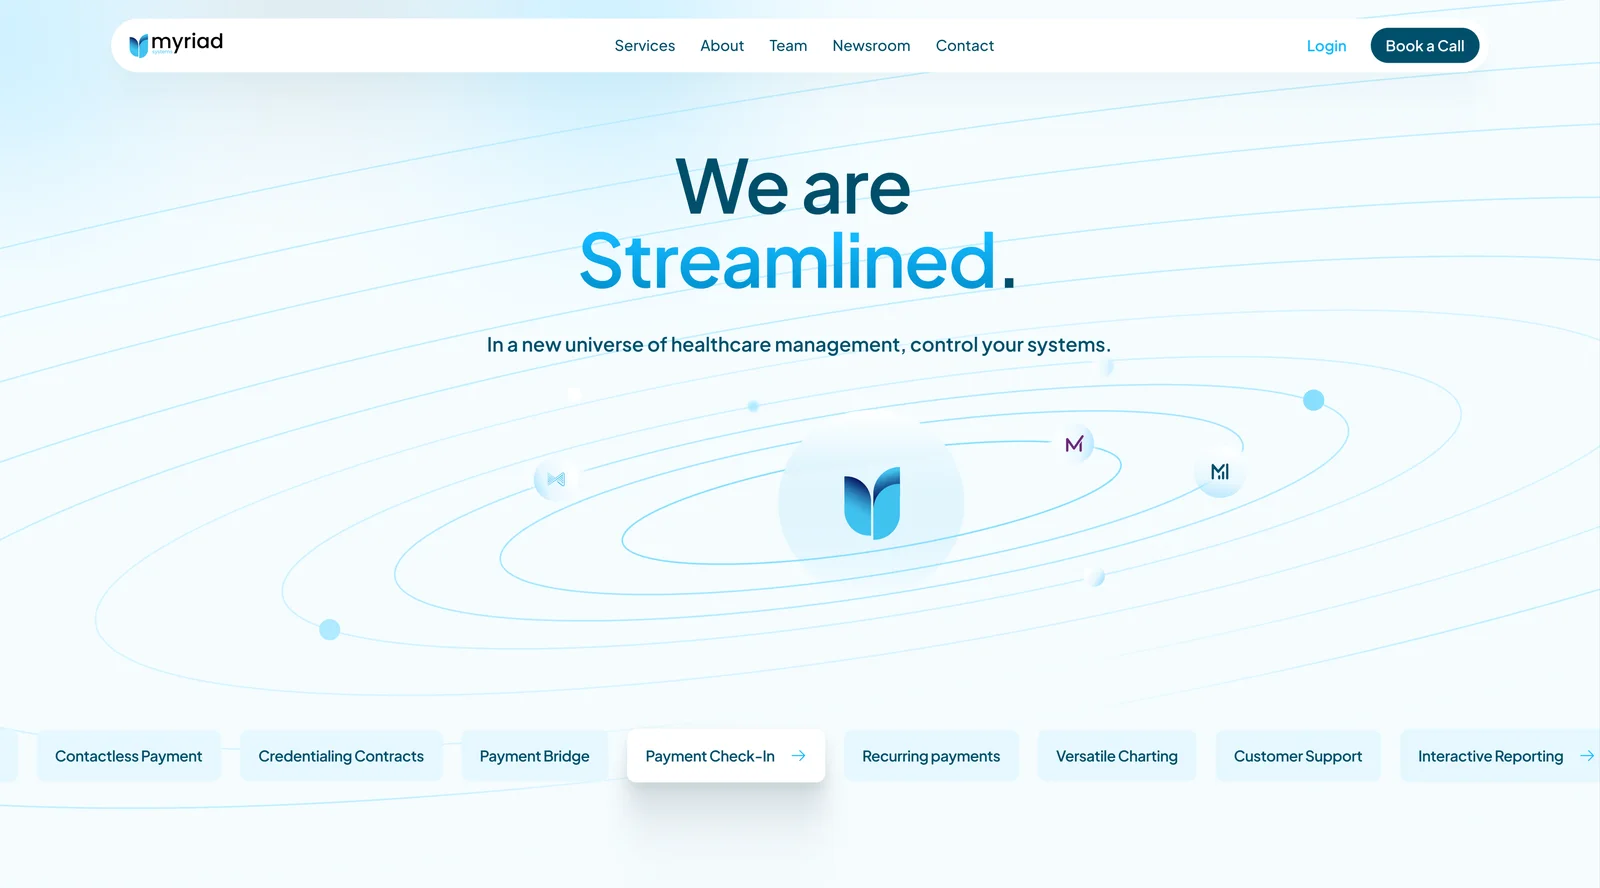
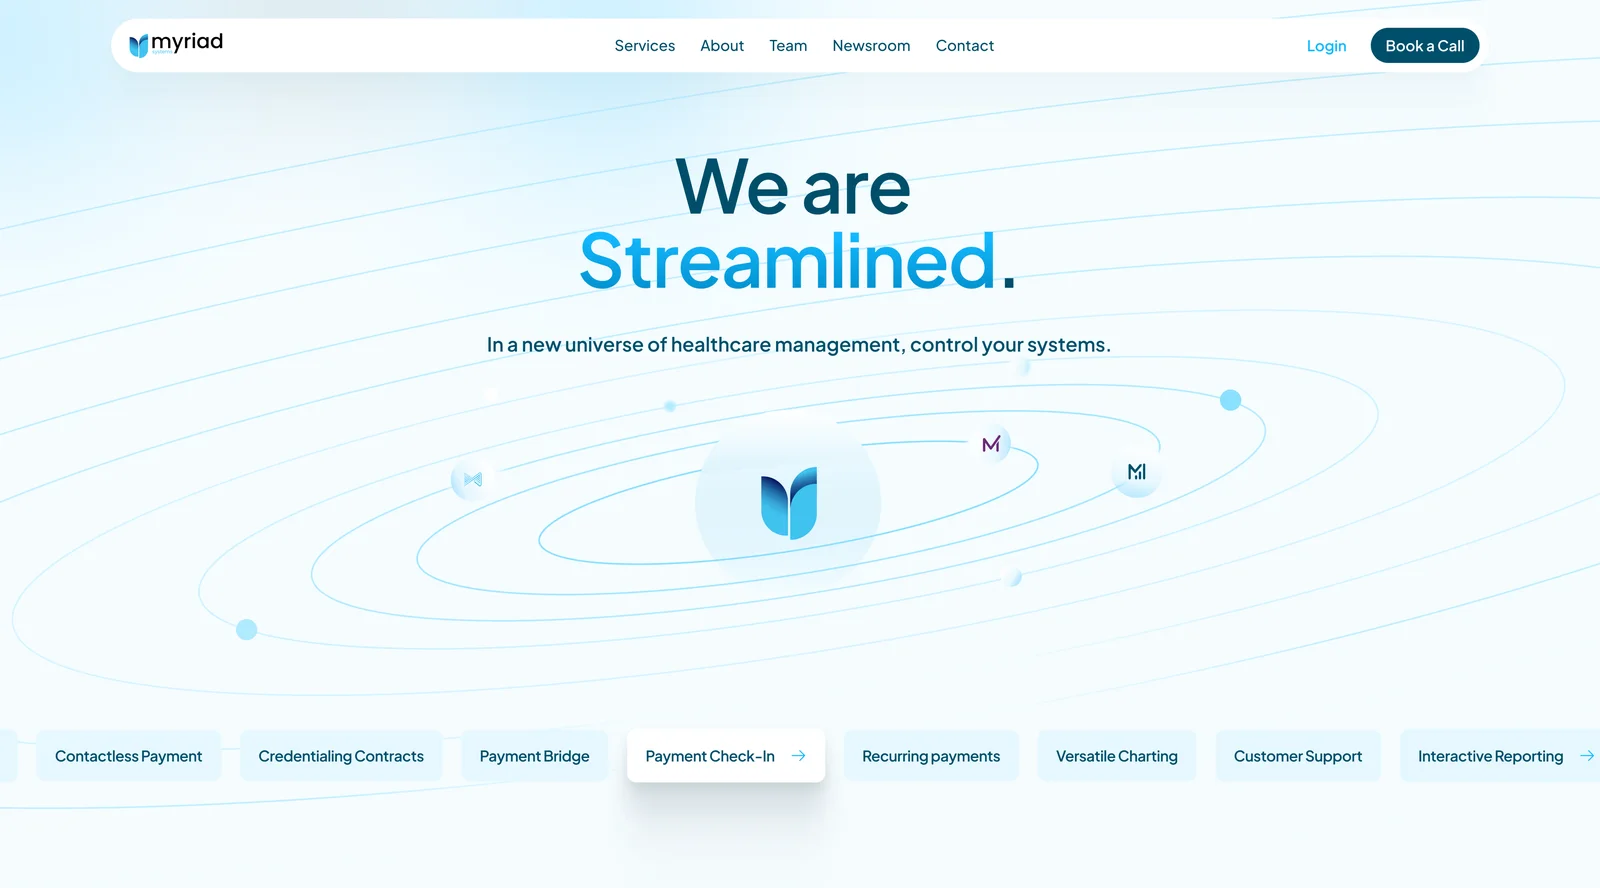
Archive navigator: swap in the newer Myriad hero image
Claude-Session: https://claude.ai/code/session_01UAuYD3GSVDpo2nKg4qsctN

diff --git a/index-v2.html b/index-v2.html
@@ -153,7 +153,7 @@
 
 <section class="wall-sec" aria-label="Archive navigator">
   <div class="wall" data-wall role="region" aria-label="Archive navigator: screens and visuals from my work. Drag to explore, click an image to enlarge.">
-    <script type="application/json">[{"thumb":"assets/wall/card-fancircle.webp","full":"assets/card-fancircle.webp","alt":"Fancircle screen","link":"fancircle/"},{"thumb":"assets/wall/ql-waxing.webp","full":"assets/ql-waxing.webp","alt":"The Qualia Lab beauty icon, waxing"},{"thumb":"assets/wall/db-logo.webp","full":"assets/db-logo.webp","alt":"Digital Bonders logo"},{"thumb":"assets/wall/cn-search.webp","full":"assets/cn-search.webp","alt":"Career Navig8r screen","link":"career-navig8r/"},{"thumb":"assets/wall/ba-dashboard.webp","full":"assets/ba-dashboard.webp","alt":"Balkanads dashboard"},{"thumb":"assets/wall/pf-archive.webp","full":"assets/pf-archive.webp","alt":"Primefold slide, scattered files orbiting"},{"thumb":"assets/wall/fc-feed.webp","full":"assets/fc-feed.webp","alt":"Fancircle feed cards","link":"fancircle/"},{"thumb":"assets/wall/fc-timeline.webp","full":"assets/fc-timeline.webp","alt":"Fancircle screen","link":"fancircle/"},{"thumb":"assets/wall/ql-facial.webp","full":"assets/ql-facial.webp","alt":"The Qualia Lab beauty icon, facial"},{"thumb":"assets/wall/fc-rewards.webp","full":"assets/fc-rewards.webp","alt":"Fancircle rewards page","link":"fancircle/"},{"thumb":"assets/wall/scandlearn-dashboard.webp","full":"assets/scandlearn-dashboard.webp","alt":"Scandlearn screen","link":"scandlearn/"},{"thumb":"assets/wall/fc-features.webp","full":"assets/fc-features.webp","alt":"Fancircle mobile feature page","link":"fancircle/"},{"thumb":"assets/wall/pf-rei.webp","full":"assets/pf-rei.webp","alt":"Primefold slide, Real Estate Intelligence"},{"thumb":"assets/wall/my-products.webp","full":"assets/my-products.webp","alt":"Myriad product family"},{"thumb":"assets/wall/fancircle-creative-room.webp","full":"assets/fancircle-creative-room.webp","alt":"Fancircle screen","link":"fancircle/"},{"thumb":"assets/wall/ql-lashes.webp","full":"assets/ql-lashes.webp","alt":"The Qualia Lab beauty icon, lash extensions"},{"thumb":"assets/wall/my-medipay.webp","full":"assets/my-medipay.webp","alt":"Myriad MediPay visual"},{"thumb":"assets/wall/cn-cards.webp","full":"assets/cn-cards.webp","alt":"Career Navig8r screen","link":"career-navig8r/"},{"thumb":"assets/wall/my-medbill.webp","full":"assets/my-medbill.webp","alt":"Myriad MedBill visual"},{"thumb":"assets/wall/ql-manicure.webp","full":"assets/ql-manicure.webp","alt":"The Qualia Lab beauty icon, manicure"},{"thumb":"assets/wall/my-transaction.webp","full":"assets/my-transaction.webp","alt":"Myriad payment visual"},{"thumb":"assets/wall/sl-search.webp","full":"assets/sl-search.webp","alt":"Scandlearn screen","link":"scandlearn/"},{"thumb":"assets/wall/metryv.webp","full":"assets/metryv.webp","alt":"metryV landing page"},{"thumb":"assets/wall/pf-banner.webp","full":"assets/pf-banner.webp","alt":"Primefold banner, brings AI to real estate"},{"thumb":"assets/wall/navig8r-home-feed.webp","full":"assets/navig8r-home-feed.webp","alt":"Career Navig8r screen","link":"career-navig8r/"},{"thumb":"assets/wall/my-hero.webp","full":"assets/my-hero.webp","alt":"Myriad website hero"},{"thumb":"assets/wall/pf-horizontal.webp","full":"assets/pf-horizontal.webp","alt":"Primefold slide, the horizontal AI"},{"thumb":"assets/wall/ba-banner.webp","full":"assets/ba-banner.webp","alt":"Balkanads banner"},{"thumb":"assets/wall/sl-components.webp","full":"assets/sl-components.webp","alt":"Scandlearn screen","link":"scandlearn/"},{"thumb":"assets/wall/fc-creators.webp","full":"assets/fc-creators.webp","alt":"Fancircle creators and fans","link":"fancircle/"},{"thumb":"assets/wall/pf-layers.webp","full":"assets/pf-layers.webp","alt":"Primefold slide, product layers"},{"thumb":"assets/wall/fc-fan-frames.webp","full":"assets/fc-fan-frames.webp","alt":"Fancircle screen","link":"fancircle/"},{"thumb":"assets/wall/arch-whatwedo.webp","full":"assets/arch-whatwedo.webp","alt":"Architecture studio, what we do"},{"thumb":"assets/wall/cn-review.webp","full":"assets/cn-review.webp","alt":"Career Navig8r screen","link":"career-navig8r/"},{"thumb":"assets/wall/cc-slide1.webp","full":"assets/cc-slide1.webp","alt":"Click Contracts slide"},{"thumb":"assets/wall/hero-scandlearn.webp","full":"assets/hero-scandlearn.webp","alt":"Scandlearn screen","link":"scandlearn/"},{"thumb":"assets/wall/cc-slide2.webp","full":"assets/cc-slide2.webp","alt":"Click Contracts slide"},{"thumb":"assets/wall/cn-new-work.webp","full":"assets/cn-new-work.webp","alt":"Career Navig8r screen","link":"career-navig8r/"},{"thumb":"assets/wall/sl-course.webp","full":"assets/sl-course.webp","alt":"Scandlearn course page","link":"scandlearn/"}]</script>
+    <script type="application/json">[{"thumb":"assets/wall/card-fancircle.webp","full":"assets/card-fancircle.webp","alt":"Fancircle screen","link":"fancircle/"},{"thumb":"assets/wall/ql-waxing.webp","full":"assets/ql-waxing.webp","alt":"The Qualia Lab beauty icon, waxing"},{"thumb":"assets/wall/db-logo.webp","full":"assets/db-logo.webp","alt":"Digital Bonders logo"},{"thumb":"assets/wall/cn-search.webp","full":"assets/cn-search.webp","alt":"Career Navig8r screen","link":"career-navig8r/"},{"thumb":"assets/wall/ba-dashboard.webp","full":"assets/ba-dashboard.webp","alt":"Balkanads dashboard"},{"thumb":"assets/wall/pf-archive.webp","full":"assets/pf-archive.webp","alt":"Primefold slide, scattered files orbiting"},{"thumb":"assets/wall/fc-feed.webp","full":"assets/fc-feed.webp","alt":"Fancircle feed cards","link":"fancircle/"},{"thumb":"assets/wall/fc-timeline.webp","full":"assets/fc-timeline.webp","alt":"Fancircle screen","link":"fancircle/"},{"thumb":"assets/wall/ql-facial.webp","full":"assets/ql-facial.webp","alt":"The Qualia Lab beauty icon, facial"},{"thumb":"assets/wall/fc-rewards.webp","full":"assets/fc-rewards.webp","alt":"Fancircle rewards page","link":"fancircle/"},{"thumb":"assets/wall/scandlearn-dashboard.webp","full":"assets/scandlearn-dashboard.webp","alt":"Scandlearn screen","link":"scandlearn/"},{"thumb":"assets/wall/fc-features.webp","full":"assets/fc-features.webp","alt":"Fancircle mobile feature page","link":"fancircle/"},{"thumb":"assets/wall/pf-rei.webp","full":"assets/pf-rei.webp","alt":"Primefold slide, Real Estate Intelligence"},{"thumb":"assets/wall/my-products.webp","full":"assets/my-products.webp","alt":"Myriad product family"},{"thumb":"assets/wall/fancircle-creative-room.webp","full":"assets/fancircle-creative-room.webp","alt":"Fancircle screen","link":"fancircle/"},{"thumb":"assets/wall/ql-lashes.webp","full":"assets/ql-lashes.webp","alt":"The Qualia Lab beauty icon, lash extensions"},{"thumb":"assets/wall/my-medipay.webp","full":"assets/my-medipay.webp","alt":"Myriad MediPay visual"},{"thumb":"assets/wall/cn-cards.webp","full":"assets/cn-cards.webp","alt":"Career Navig8r screen","link":"career-navig8r/"},{"thumb":"assets/wall/my-medbill.webp","full":"assets/my-medbill.webp","alt":"Myriad MedBill visual"},{"thumb":"assets/wall/ql-manicure.webp","full":"assets/ql-manicure.webp","alt":"The Qualia Lab beauty icon, manicure"},{"thumb":"assets/wall/my-transaction.webp","full":"assets/my-transaction.webp","alt":"Myriad payment visual"},{"thumb":"assets/wall/sl-search.webp","full":"assets/sl-search.webp","alt":"Scandlearn screen","link":"scandlearn/"},{"thumb":"assets/wall/metryv.webp","full":"assets/metryv.webp","alt":"metryV landing page"},{"thumb":"assets/wall/pf-banner.webp","full":"assets/pf-banner.webp","alt":"Primefold banner, brings AI to real estate"},{"thumb":"assets/wall/navig8r-home-feed.webp","full":"assets/navig8r-home-feed.webp","alt":"Career Navig8r screen","link":"career-navig8r/"},{"thumb":"assets/wall/my-hero.webp?v=2","full":"assets/my-hero.webp?v=2","alt":"Myriad website hero"},{"thumb":"assets/wall/pf-horizontal.webp","full":"assets/pf-horizontal.webp","alt":"Primefold slide, the horizontal AI"},{"thumb":"assets/wall/ba-banner.webp","full":"assets/ba-banner.webp","alt":"Balkanads banner"},{"thumb":"assets/wall/sl-components.webp","full":"assets/sl-components.webp","alt":"Scandlearn screen","link":"scandlearn/"},{"thumb":"assets/wall/fc-creators.webp","full":"assets/fc-creators.webp","alt":"Fancircle creators and fans","link":"fancircle/"},{"thumb":"assets/wall/pf-layers.webp","full":"assets/pf-layers.webp","alt":"Primefold slide, product layers"},{"thumb":"assets/wall/fc-fan-frames.webp","full":"assets/fc-fan-frames.webp","alt":"Fancircle screen","link":"fancircle/"},{"thumb":"assets/wall/arch-whatwedo.webp","full":"assets/arch-whatwedo.webp","alt":"Architecture studio, what we do"},{"thumb":"assets/wall/cn-review.webp","full":"assets/cn-review.webp","alt":"Career Navig8r screen","link":"career-navig8r/"},{"thumb":"assets/wall/cc-slide1.webp","full":"assets/cc-slide1.webp","alt":"Click Contracts slide"},{"thumb":"assets/wall/hero-scandlearn.webp","full":"assets/hero-scandlearn.webp","alt":"Scandlearn screen","link":"scandlearn/"},{"thumb":"assets/wall/cc-slide2.webp","full":"assets/cc-slide2.webp","alt":"Click Contracts slide"},{"thumb":"assets/wall/cn-new-work.webp","full":"assets/cn-new-work.webp","alt":"Career Navig8r screen","link":"career-navig8r/"},{"thumb":"assets/wall/sl-course.webp","full":"assets/sl-course.webp","alt":"Scandlearn course page","link":"scandlearn/"}]</script>
   </div>
   <div class="wall-talk">
     <div class="talk-card">

diff --git a/index.html b/index.html
@@ -152,7 +152,7 @@
 
 <section class="wall-sec" aria-label="Archive navigator">
   <div class="wall" data-wall role="region" aria-label="Archive navigator: screens and visuals from my work. Drag to explore, click an image to enlarge.">
-    <script type="application/json">[{"thumb":"assets/wall/card-fancircle.webp","full":"assets/card-fancircle.webp","alt":"Fancircle screen","link":"fancircle/"},{"thumb":"assets/wall/ql-waxing.webp","full":"assets/ql-waxing.webp","alt":"The Qualia Lab beauty icon, waxing"},{"thumb":"assets/wall/db-logo.webp","full":"assets/db-logo.webp","alt":"Digital Bonders logo"},{"thumb":"assets/wall/cn-search.webp","full":"assets/cn-search.webp","alt":"Career Navig8r screen","link":"career-navig8r/"},{"thumb":"assets/wall/ba-dashboard.webp","full":"assets/ba-dashboard.webp","alt":"Balkanads dashboard"},{"thumb":"assets/wall/pf-archive.webp","full":"assets/pf-archive.webp","alt":"Primefold slide, scattered files orbiting"},{"thumb":"assets/wall/fc-feed.webp","full":"assets/fc-feed.webp","alt":"Fancircle feed cards","link":"fancircle/"},{"thumb":"assets/wall/fc-timeline.webp","full":"assets/fc-timeline.webp","alt":"Fancircle screen","link":"fancircle/"},{"thumb":"assets/wall/ql-facial.webp","full":"assets/ql-facial.webp","alt":"The Qualia Lab beauty icon, facial"},{"thumb":"assets/wall/fc-rewards.webp","full":"assets/fc-rewards.webp","alt":"Fancircle rewards page","link":"fancircle/"},{"thumb":"assets/wall/scandlearn-dashboard.webp","full":"assets/scandlearn-dashboard.webp","alt":"Scandlearn screen","link":"scandlearn/"},{"thumb":"assets/wall/fc-features.webp","full":"assets/fc-features.webp","alt":"Fancircle mobile feature page","link":"fancircle/"},{"thumb":"assets/wall/pf-rei.webp","full":"assets/pf-rei.webp","alt":"Primefold slide, Real Estate Intelligence"},{"thumb":"assets/wall/my-products.webp","full":"assets/my-products.webp","alt":"Myriad product family"},{"thumb":"assets/wall/fancircle-creative-room.webp","full":"assets/fancircle-creative-room.webp","alt":"Fancircle screen","link":"fancircle/"},{"thumb":"assets/wall/ql-lashes.webp","full":"assets/ql-lashes.webp","alt":"The Qualia Lab beauty icon, lash extensions"},{"thumb":"assets/wall/my-medipay.webp","full":"assets/my-medipay.webp","alt":"Myriad MediPay visual"},{"thumb":"assets/wall/cn-cards.webp","full":"assets/cn-cards.webp","alt":"Career Navig8r screen","link":"career-navig8r/"},{"thumb":"assets/wall/my-medbill.webp","full":"assets/my-medbill.webp","alt":"Myriad MedBill visual"},{"thumb":"assets/wall/ql-manicure.webp","full":"assets/ql-manicure.webp","alt":"The Qualia Lab beauty icon, manicure"},{"thumb":"assets/wall/my-transaction.webp","full":"assets/my-transaction.webp","alt":"Myriad payment visual"},{"thumb":"assets/wall/sl-search.webp","full":"assets/sl-search.webp","alt":"Scandlearn screen","link":"scandlearn/"},{"thumb":"assets/wall/metryv.webp","full":"assets/metryv.webp","alt":"metryV landing page"},{"thumb":"assets/wall/pf-banner.webp","full":"assets/pf-banner.webp","alt":"Primefold banner, brings AI to real estate"},{"thumb":"assets/wall/navig8r-home-feed.webp","full":"assets/navig8r-home-feed.webp","alt":"Career Navig8r screen","link":"career-navig8r/"},{"thumb":"assets/wall/my-hero.webp","full":"assets/my-hero.webp","alt":"Myriad website hero"},{"thumb":"assets/wall/pf-horizontal.webp","full":"assets/pf-horizontal.webp","alt":"Primefold slide, the horizontal AI"},{"thumb":"assets/wall/ba-banner.webp","full":"assets/ba-banner.webp","alt":"Balkanads banner"},{"thumb":"assets/wall/sl-components.webp","full":"assets/sl-components.webp","alt":"Scandlearn screen","link":"scandlearn/"},{"thumb":"assets/wall/fc-creators.webp","full":"assets/fc-creators.webp","alt":"Fancircle creators and fans","link":"fancircle/"},{"thumb":"assets/wall/pf-layers.webp","full":"assets/pf-layers.webp","alt":"Primefold slide, product layers"},{"thumb":"assets/wall/fc-fan-frames.webp","full":"assets/fc-fan-frames.webp","alt":"Fancircle screen","link":"fancircle/"},{"thumb":"assets/wall/arch-whatwedo.webp","full":"assets/arch-whatwedo.webp","alt":"Architecture studio, what we do"},{"thumb":"assets/wall/cn-review.webp","full":"assets/cn-review.webp","alt":"Career Navig8r screen","link":"career-navig8r/"},{"thumb":"assets/wall/cc-slide1.webp","full":"assets/cc-slide1.webp","alt":"Click Contracts slide"},{"thumb":"assets/wall/hero-scandlearn.webp","full":"assets/hero-scandlearn.webp","alt":"Scandlearn screen","link":"scandlearn/"},{"thumb":"assets/wall/cc-slide2.webp","full":"assets/cc-slide2.webp","alt":"Click Contracts slide"},{"thumb":"assets/wall/cn-new-work.webp","full":"assets/cn-new-work.webp","alt":"Career Navig8r screen","link":"career-navig8r/"},{"thumb":"assets/wall/sl-course.webp","full":"assets/sl-course.webp","alt":"Scandlearn course page","link":"scandlearn/"}]</script>
+    <script type="application/json">[{"thumb":"assets/wall/card-fancircle.webp","full":"assets/card-fancircle.webp","alt":"Fancircle screen","link":"fancircle/"},{"thumb":"assets/wall/ql-waxing.webp","full":"assets/ql-waxing.webp","alt":"The Qualia Lab beauty icon, waxing"},{"thumb":"assets/wall/db-logo.webp","full":"assets/db-logo.webp","alt":"Digital Bonders logo"},{"thumb":"assets/wall/cn-search.webp","full":"assets/cn-search.webp","alt":"Career Navig8r screen","link":"career-navig8r/"},{"thumb":"assets/wall/ba-dashboard.webp","full":"assets/ba-dashboard.webp","alt":"Balkanads dashboard"},{"thumb":"assets/wall/pf-archive.webp","full":"assets/pf-archive.webp","alt":"Primefold slide, scattered files orbiting"},{"thumb":"assets/wall/fc-feed.webp","full":"assets/fc-feed.webp","alt":"Fancircle feed cards","link":"fancircle/"},{"thumb":"assets/wall/fc-timeline.webp","full":"assets/fc-timeline.webp","alt":"Fancircle screen","link":"fancircle/"},{"thumb":"assets/wall/ql-facial.webp","full":"assets/ql-facial.webp","alt":"The Qualia Lab beauty icon, facial"},{"thumb":"assets/wall/fc-rewards.webp","full":"assets/fc-rewards.webp","alt":"Fancircle rewards page","link":"fancircle/"},{"thumb":"assets/wall/scandlearn-dashboard.webp","full":"assets/scandlearn-dashboard.webp","alt":"Scandlearn screen","link":"scandlearn/"},{"thumb":"assets/wall/fc-features.webp","full":"assets/fc-features.webp","alt":"Fancircle mobile feature page","link":"fancircle/"},{"thumb":"assets/wall/pf-rei.webp","full":"assets/pf-rei.webp","alt":"Primefold slide, Real Estate Intelligence"},{"thumb":"assets/wall/my-products.webp","full":"assets/my-products.webp","alt":"Myriad product family"},{"thumb":"assets/wall/fancircle-creative-room.webp","full":"assets/fancircle-creative-room.webp","alt":"Fancircle screen","link":"fancircle/"},{"thumb":"assets/wall/ql-lashes.webp","full":"assets/ql-lashes.webp","alt":"The Qualia Lab beauty icon, lash extensions"},{"thumb":"assets/wall/my-medipay.webp","full":"assets/my-medipay.webp","alt":"Myriad MediPay visual"},{"thumb":"assets/wall/cn-cards.webp","full":"assets/cn-cards.webp","alt":"Career Navig8r screen","link":"career-navig8r/"},{"thumb":"assets/wall/my-medbill.webp","full":"assets/my-medbill.webp","alt":"Myriad MedBill visual"},{"thumb":"assets/wall/ql-manicure.webp","full":"assets/ql-manicure.webp","alt":"The Qualia Lab beauty icon, manicure"},{"thumb":"assets/wall/my-transaction.webp","full":"assets/my-transaction.webp","alt":"Myriad payment visual"},{"thumb":"assets/wall/sl-search.webp","full":"assets/sl-search.webp","alt":"Scandlearn screen","link":"scandlearn/"},{"thumb":"assets/wall/metryv.webp","full":"assets/metryv.webp","alt":"metryV landing page"},{"thumb":"assets/wall/pf-banner.webp","full":"assets/pf-banner.webp","alt":"Primefold banner, brings AI to real estate"},{"thumb":"assets/wall/navig8r-home-feed.webp","full":"assets/navig8r-home-feed.webp","alt":"Career Navig8r screen","link":"career-navig8r/"},{"thumb":"assets/wall/my-hero.webp?v=2","full":"assets/my-hero.webp?v=2","alt":"Myriad website hero"},{"thumb":"assets/wall/pf-horizontal.webp","full":"assets/pf-horizontal.webp","alt":"Primefold slide, the horizontal AI"},{"thumb":"assets/wall/ba-banner.webp","full":"assets/ba-banner.webp","alt":"Balkanads banner"},{"thumb":"assets/wall/sl-components.webp","full":"assets/sl-components.webp","alt":"Scandlearn screen","link":"scandlearn/"},{"thumb":"assets/wall/fc-creators.webp","full":"assets/fc-creators.webp","alt":"Fancircle creators and fans","link":"fancircle/"},{"thumb":"assets/wall/pf-layers.webp","full":"assets/pf-layers.webp","alt":"Primefold slide, product layers"},{"thumb":"assets/wall/fc-fan-frames.webp","full":"assets/fc-fan-frames.webp","alt":"Fancircle screen","link":"fancircle/"},{"thumb":"assets/wall/arch-whatwedo.webp","full":"assets/arch-whatwedo.webp","alt":"Architecture studio, what we do"},{"thumb":"assets/wall/cn-review.webp","full":"assets/cn-review.webp","alt":"Career Navig8r screen","link":"career-navig8r/"},{"thumb":"assets/wall/cc-slide1.webp","full":"assets/cc-slide1.webp","alt":"Click Contracts slide"},{"thumb":"assets/wall/hero-scandlearn.webp","full":"assets/hero-scandlearn.webp","alt":"Scandlearn screen","link":"scandlearn/"},{"thumb":"assets/wall/cc-slide2.webp","full":"assets/cc-slide2.webp","alt":"Click Contracts slide"},{"thumb":"assets/wall/cn-new-work.webp","full":"assets/cn-new-work.webp","alt":"Career Navig8r screen","link":"career-navig8r/"},{"thumb":"assets/wall/sl-course.webp","full":"assets/sl-course.webp","alt":"Scandlearn course page","link":"scandlearn/"}]</script>
   </div>
   <div class="wall-talk">
     <div class="talk-card">
